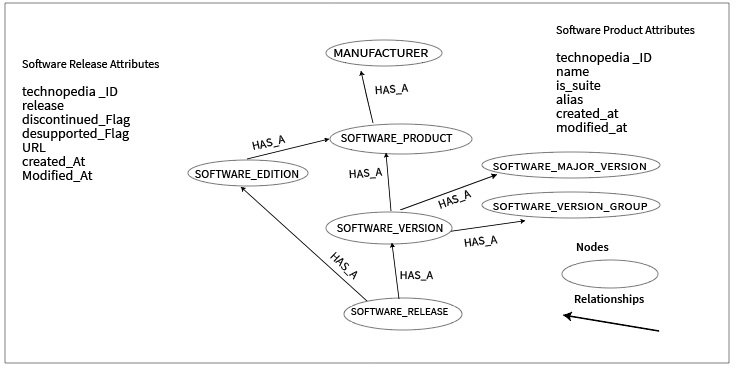
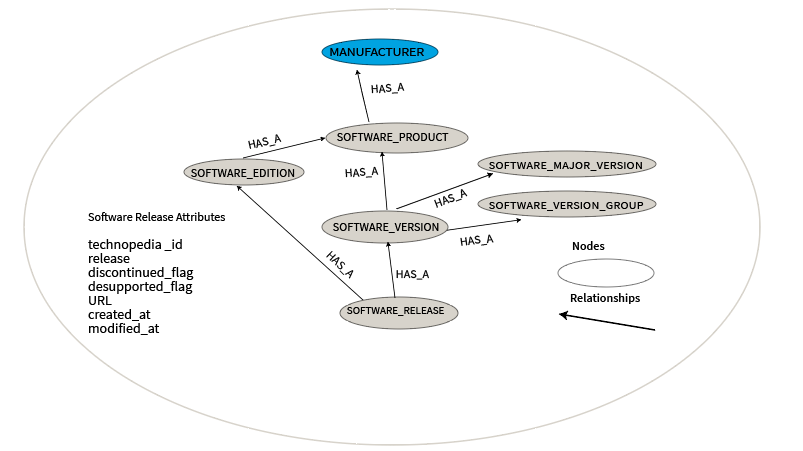
updates

diff --git a/_api/software1.1.md b/_api/software1.1.md
@@ -13,7 +13,8 @@ content_markdown: |-
   Software is a general classification that can be broken into the following classifications
     * Software Product
     * Software Version
-    * Software Group Version
+    * Software Version Group
+    * Software Major Version
     * Software Edition
     * Software Release
   

diff --git a/_api/sw_verison1.2.md b/_api/sw_verison1.2.md
@@ -111,12 +111,12 @@ right_code_blocks:
       modified_at
 
 
-      MAJOR VERSION GROUP
+      SOFTWARE VERSION GROUP
       technopedia_id
       version
       
 
-      MAJOR VERSION 
+      SOFTWARE MAJOR VERSION 
       technopedia_id
       version
       

diff --git a/_api/Categories.3.5.md b/_api/Categories.3.5.md
@@ -151,7 +151,7 @@ right_code_blocks:
         name
         short name
         
-    title: Vertical
+    title: Vertical Attributes
     language: bash
 
   - code_block: |2-
